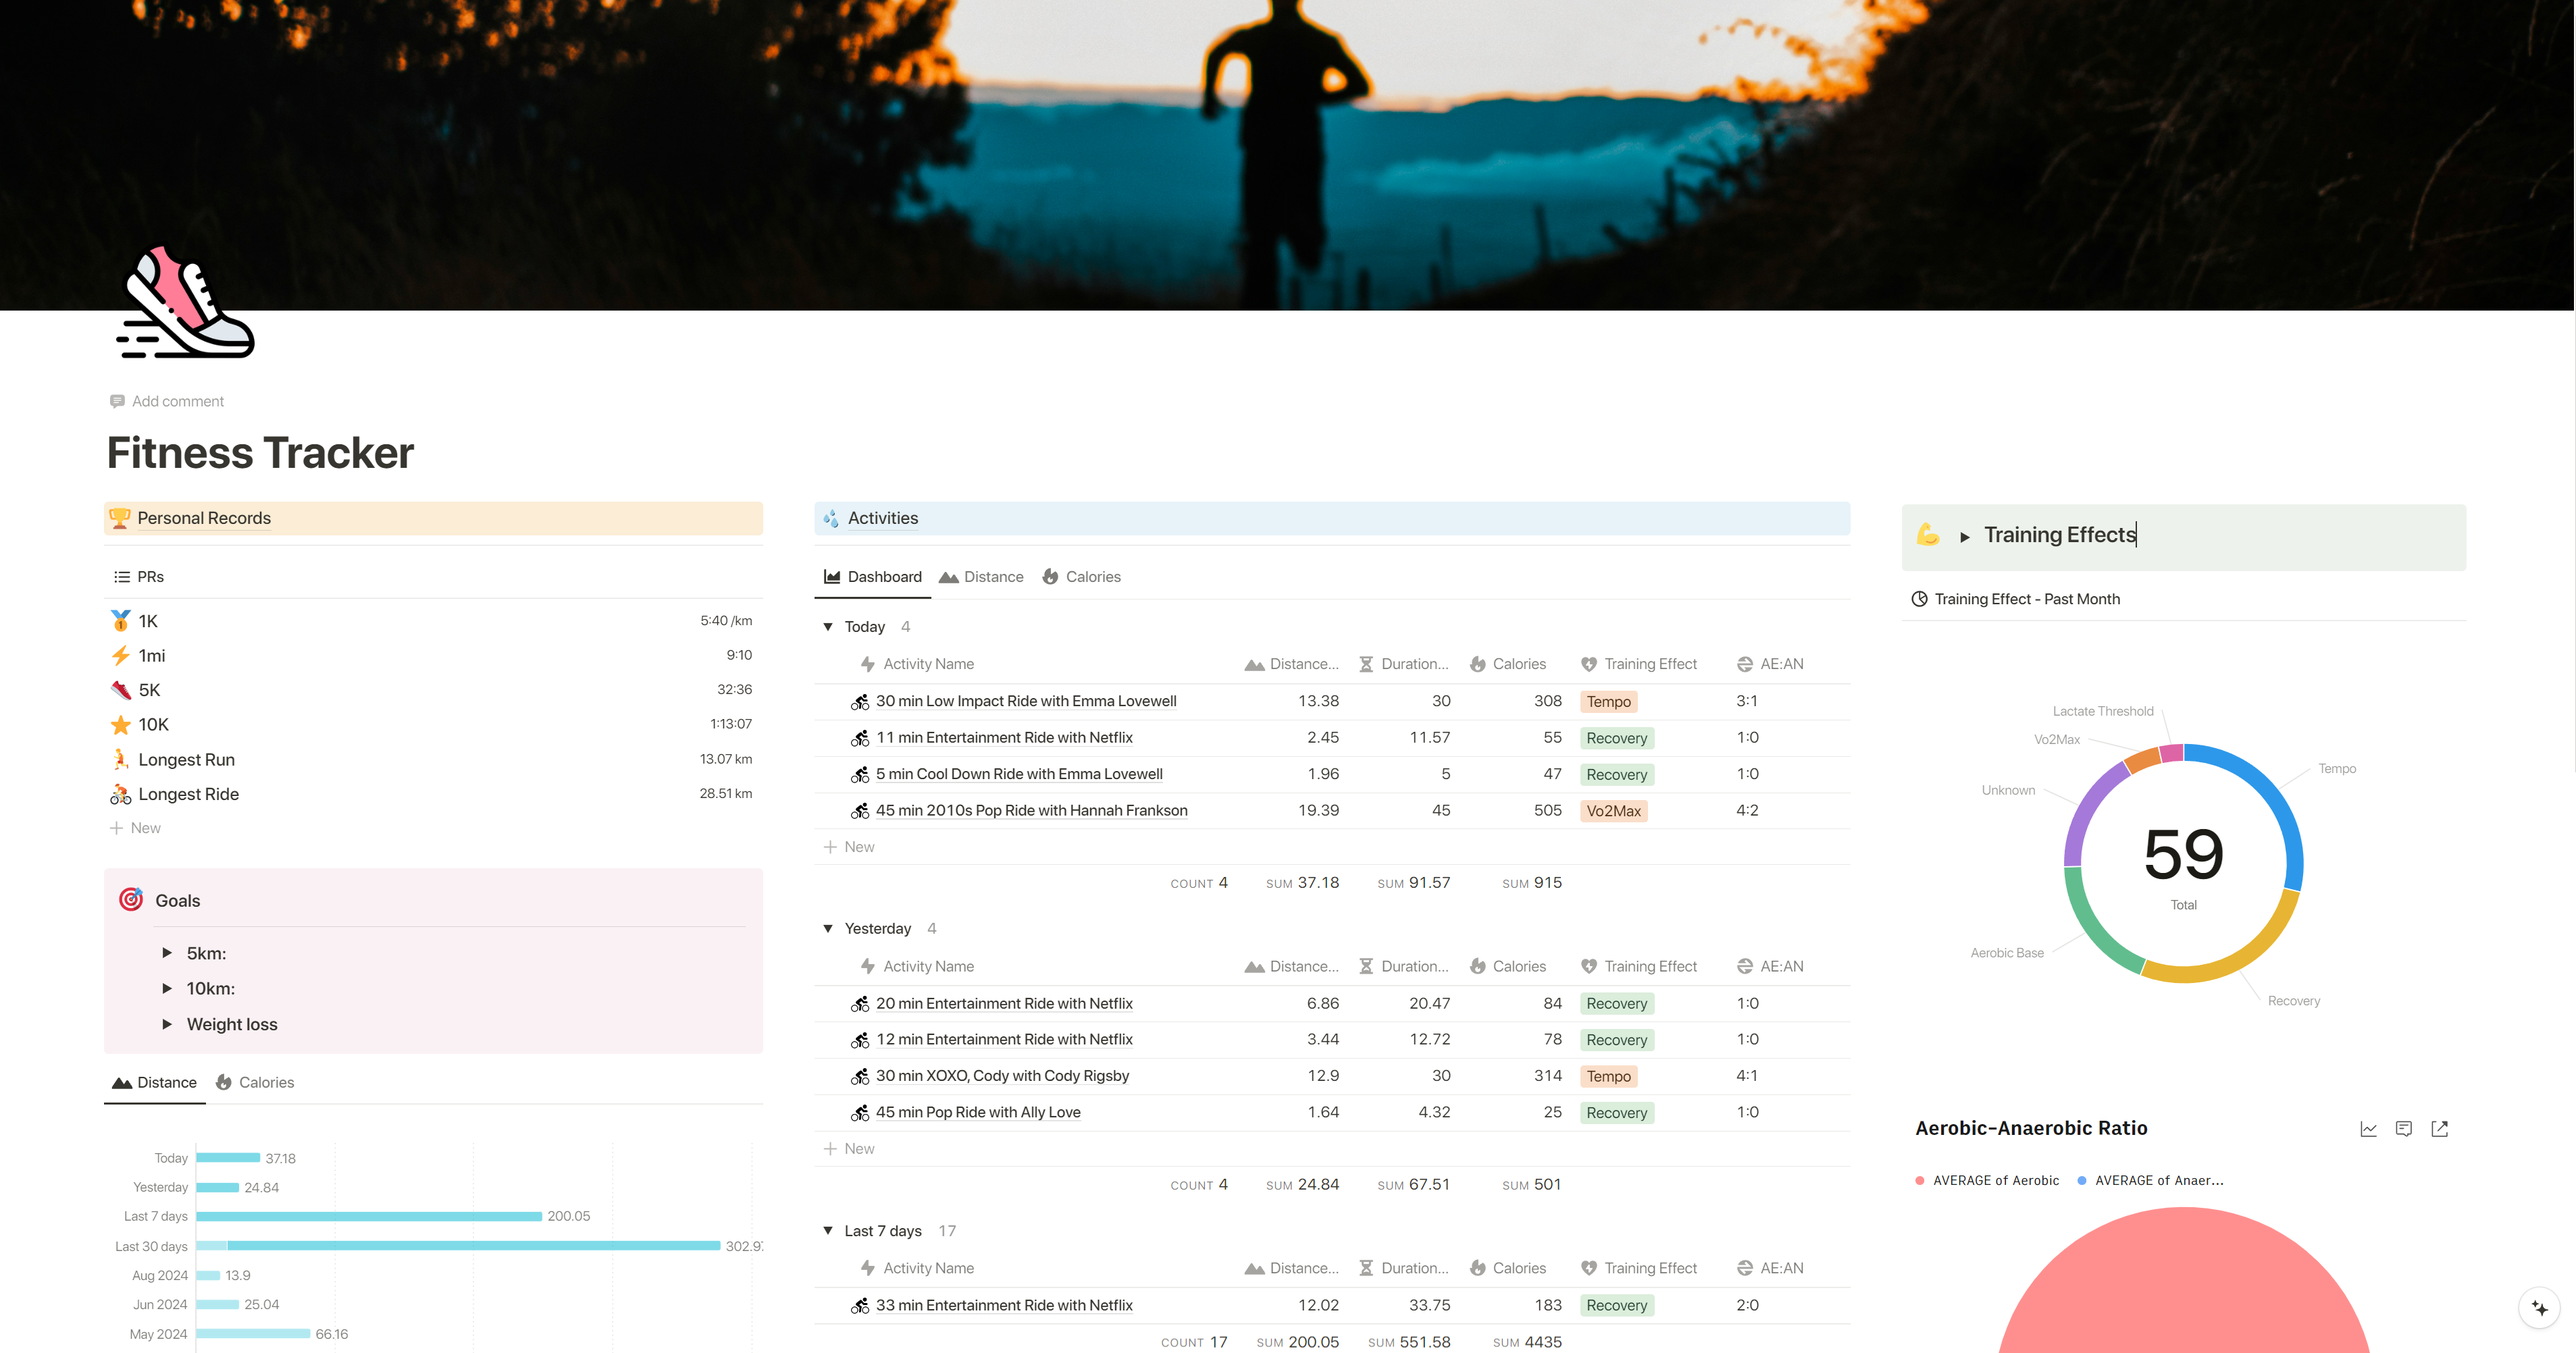
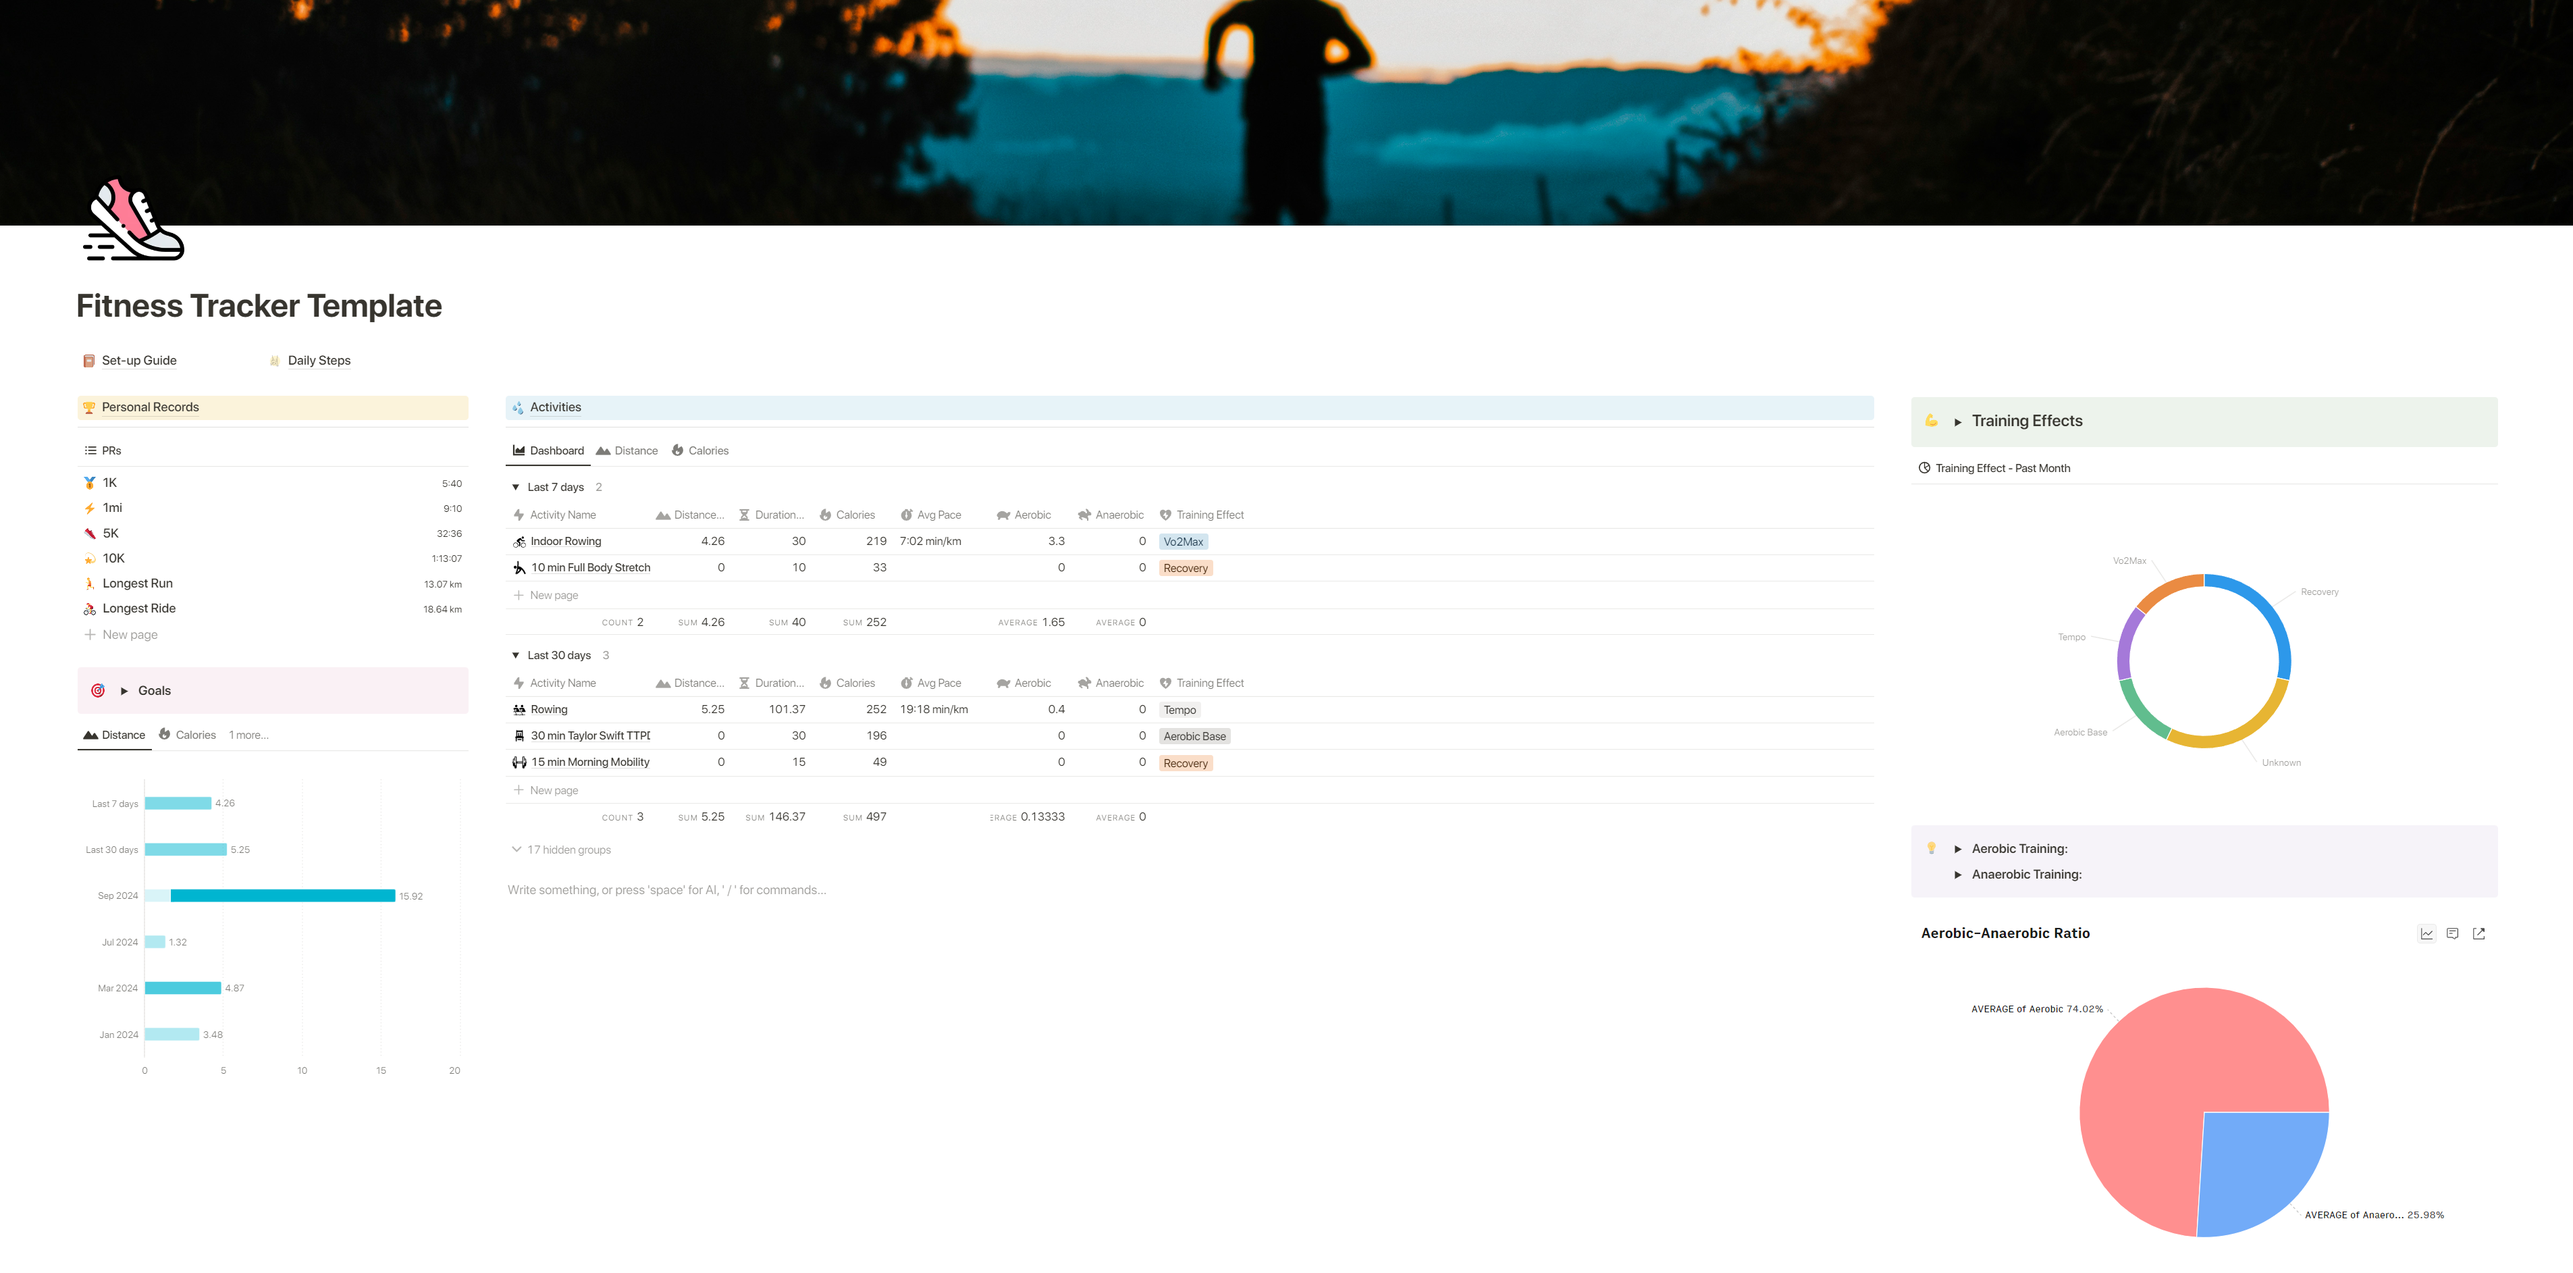
Enhance Garmin-to-Notion integration documentation with detailed features and setup instructions

diff --git a/_posts/en-us/2024-09-01-garmin-to-notion.md b/_posts/en-us/2024-09-01-garmin-to-notion.md
@@ -16,9 +16,12 @@ This project connects your Garmin activities and personal records to your Notion
 
 ## Features ✨
 
-- Automatically sync Garmin activities to Notion.
-- Extract Garmin personal records such as fastest 1K and longest ride.
-- Easy setup with clear instructions and minimal coding required.
+🔄 Automatically sync Garmin activities to Notion in real-time
+📊 Track detailed activity metrics (distance, pace, heart rate)
+🎯 Extract and track personal records (fastest 1K, longest ride)
+🤖 Zero maintenance after setup
+📱 Compatible with all Garmin activities and devices
+🔧 Easy setup with clear instructions and minimal coding required
 
 ## Prerequisites 🛠
 
@@ -28,26 +31,40 @@ This project connects your Garmin activities and personal records to your Notion
 
 ## Getting Started 🎯
 
-Follow these steps to set up the integration:
+A detailed step-by-step guide is provided on my Notion template [here](https://chloevoyer.notion.site/Set-up-Guide-17915ce7058880559a3ac9f8a0720046).
+For more advanced users, follow these steps to set up the integration:
 
-### 1. Set Environment Secrets
+### 1. Fork this GitHub Repository
 
-Ensure that your environment secrets are correctly configured for secure data access.
+### 2. Duplicate my [Notion Template](https://www.notion.so/templates/fitness-tracker-738)
 
-### 2. Create Notion Token
+* Save your Activities and Personal Records database ID (you will need it for step 4)
+  * Optional: Daily Steps database ID
+  * Look at the URL: notion.so/username/[string-of-characters]
+  * The database ID for this database is everything after your “username/“ and before the “?v”
 
-- Go to [Notion Integrations](https://www.notion.so/profile/integrations).
-- [Create](https://developers.notion.com/docs/create-a-notion-integration) a new integration and copy the integration token.
-- [Share](https://www.notion.so/help/add-and-manage-connections-with-the-api#enterprise-connection-settings) the integration with the target database in Notion.
+### 3. Create Notion Token
 
-### 3. Run Scripts Locally
+* Go to [Notion Integrations](https://www.notion.so/profile/integrations).
+* [Create](https://developers.notion.com/docs/create-a-notion-integration) a new integration and copy the integration token.
+* [Share](https://www.notion.so/help/add-and-manage-connections-with-the-api#enterprise-connection-settings) the integration with the target database in Notion.
 
-If you don't want to use automatically workflow:
+### 4. Set Environment Secrets
 
-- Run [garmin-activities.py](https://github.com/chloevoyer/garmin-to-notion/blob/main/garmin-activities.py) to sync your Garmin activities to Notion.
-  `python garmin-activities.py`
-- Run [person-records.py](https://github.com/chloevoyer/garmin-to-notion/blob/main/personal-records.py) to extract activity records (e.g., fastest run, longest ride).  
-   `python personal-records.py`
+* Environment secrets to define:
+  * GARMIN_EMAIL
+  * GARMIN_PASSWORD
+  * NOTION_TOKEN
+  * NOTION_DB_ID
+  * NOTION_PR_DB_ID
+  * NOTION_STEPS_DB_ID (optional)
+
+### 5. Run Scripts (if not using automatic workflow)
+
+* Run [garmin-activities.py](https://github.com/chloevoyer/garmin-to-notion/blob/main/garmin-activities.py) to sync your Garmin activities to Notion.  
+`python garmin-activities.py`
+* Run [person-records.py](https://github.com/chloevoyer/garmin-to-notion/blob/main/personal-records.py) to extract activity records (e.g., fastest run, longest ride).  
+`python personal-records.py` 
 
 ## Example Configuration 📝
 
